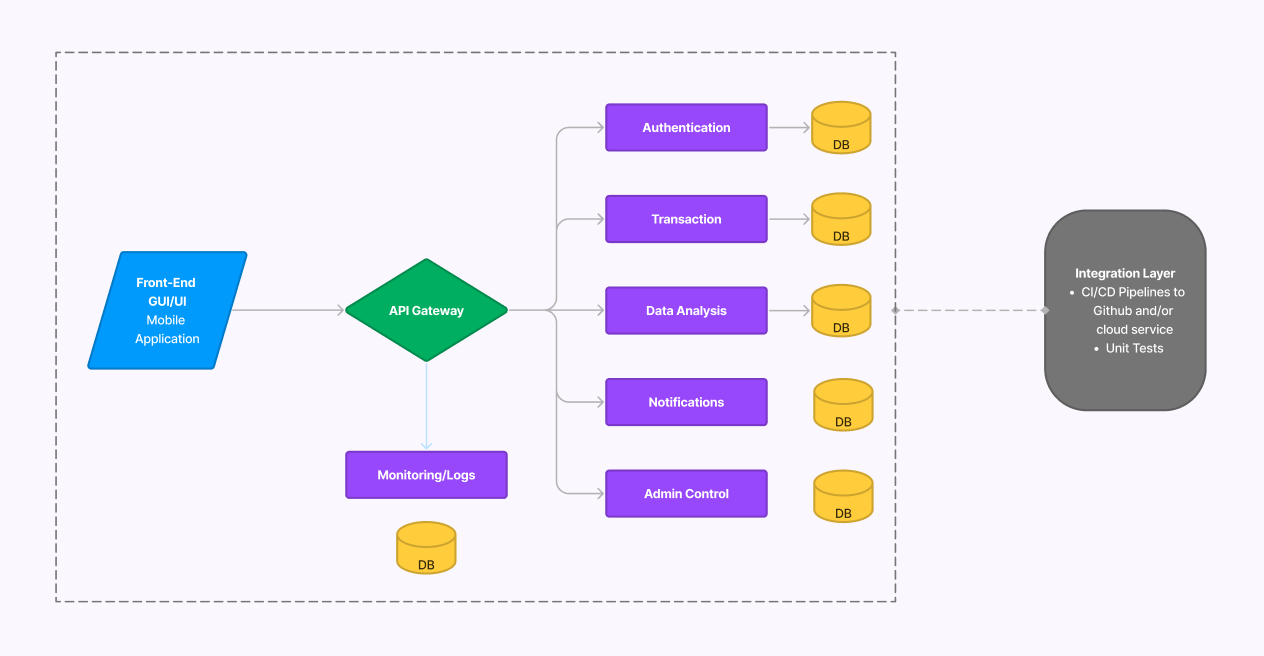
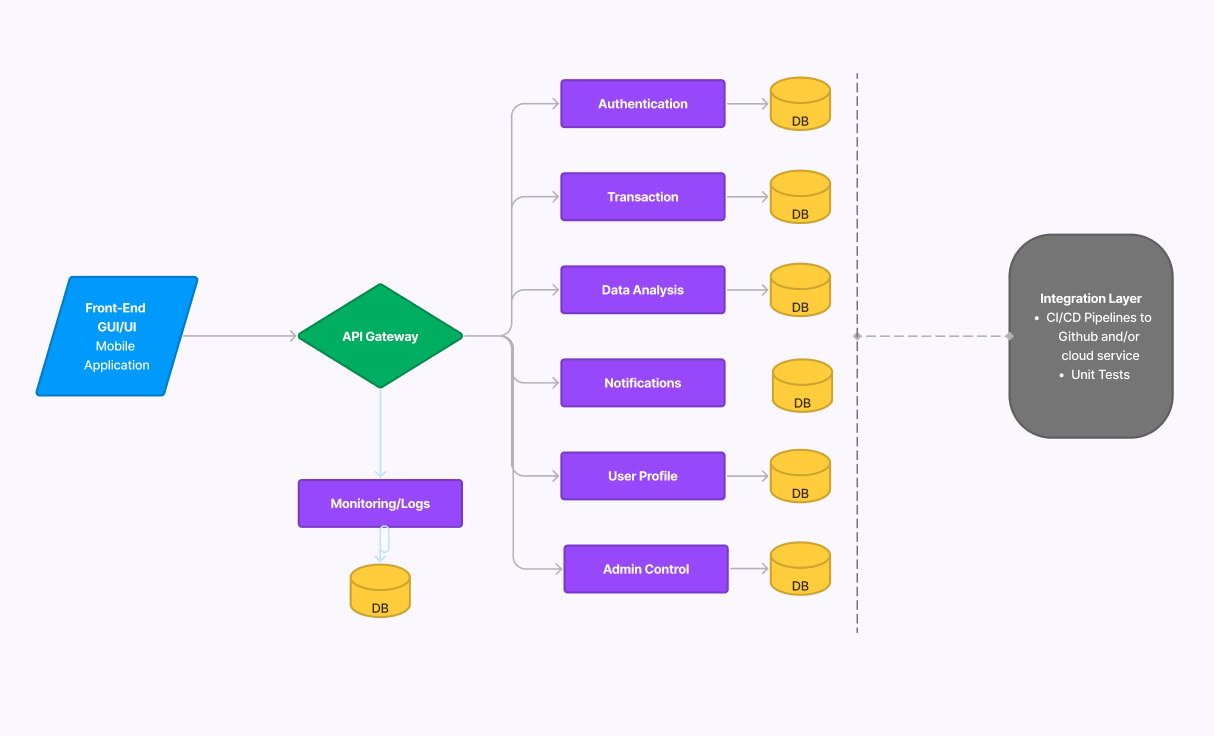
microservices description and diagram update

diff --git a/README.md b/README.md
@@ -37,7 +37,7 @@ Out of Scope:
 Global Architectural Structure:
 ![software architecture](/images/architecture.png)
 - Frontend: React Native + Expo
-- Backend: Node.js + Express.js
+- Backend: Node.js + Express.js + Python
    - AWS Lambda
    - AWS API Gateway
 - Database: MongoDB
@@ -50,18 +50,37 @@ Global Architectural Structure:
 - Security: AWS Cognito
 
 Design Implications and Discussion:
-1. Front-end UI
-- As the primary focus of this application is to display users financial data in easy to understand and intuitive graphs the front-end UI is an important part of the project. This allows users to easily view their consolidated financial statements from multiple external platforms.
-2. Back-end Application Layer
-- The back-end needs to handle the flow of data within the application. Specifically it needs to be able to send data to the DB when a user is uploading data and send data to UI when users request to see their financial analyzed data.
-- An admin page should be provided for access to check the overall user activities, backend system sanity, and statistics. The system should also allow partial or full access to the database and be able to perform user account recovery or banning.
-3. Intermediate Layer 
-- Financial statements from various third party services need to be requested, uploaded, and parsed in our application. Since this would require using multiple third party APIs there needs to be a part of the software architecture that organizes the data in a uniform way before it is placed in our DB and displayed to the users.
-4. Integration
-- A CI/CD pipeline is necessary to test written software and ease the deployment of the application
-- Unit test coverage and code lint system integration to both the frontend and backend
-5. Cloud Infrastructure
-- One of the main goals of this project is to deploy it on a cloud service. Doing this would require research on whether we would want to use containers or severless method to deploy and scale our application. Either option would require integration with a cloud service and the use of their scaling and monitoring tools once the app is deployed
+A microservice architecture was used for the benefits of modular development, scalability, and the ability to have multiple tech stacks for each individual microservice.
+
+1. Front-end GUI/UI
+- Financial data in easy to understand and intuitive graphs
+
+2. API Gateway
+- Responsible for recieving and redirecting API request to the corresponding microservice 
+
+3. Authentation 
+- Handles user registration, login, logout, and passwords
+
+4. Transaction
+- Request and accumalates data from different payment platforms. Then parses this data to house in a uniform format. Also holds user inputed financial data.
+
+5. Data Analysis 
+- Finds trends and analyzes users financial statement history. Also categorizes expenses.
+
+6. Notifications
+- Creates and sends custom notfications for each user
+
+7. User Profile
+- Saves user profile and prefrences including what kinds of graphics they like best to show thier financial data
+
+8. Admin Control
+- Admin user accounts and privalges such as blocking or restricting users
+
+9. Monitoring/Logs
+- Collects logs from all the individual microservices to monitor thier work and help realize when a microservice might need to expand based on demand. 
+
+10. Integration Layer
+- Unit test coverage and code lint system integration to both the frontend and backend. Also CI/CD pipeline for test and delpoyment of software
 
 ## 5. Acceptance Criteria
 Minimum Acceptance Criteria:
